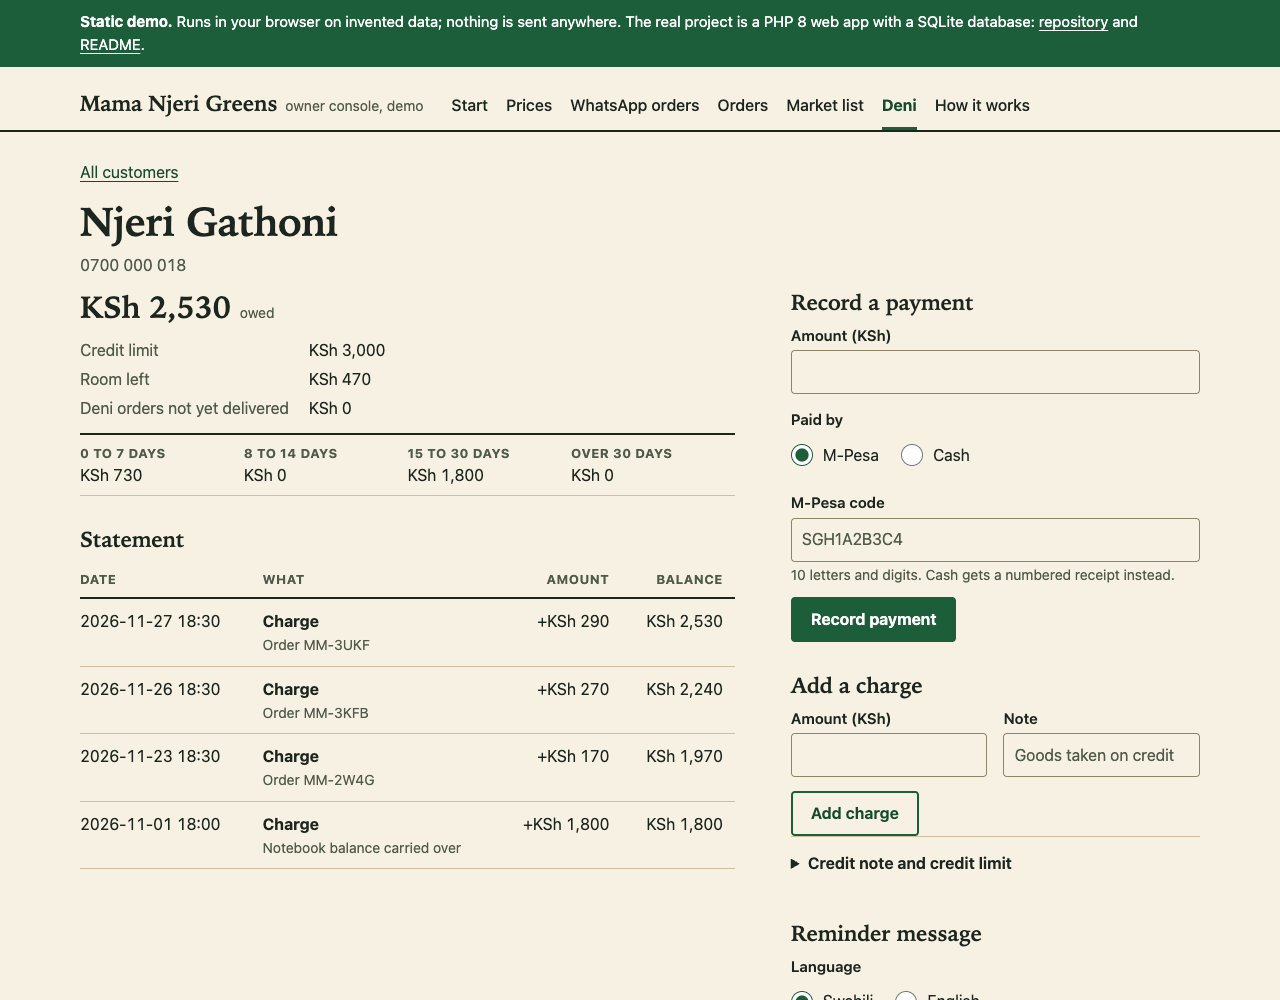
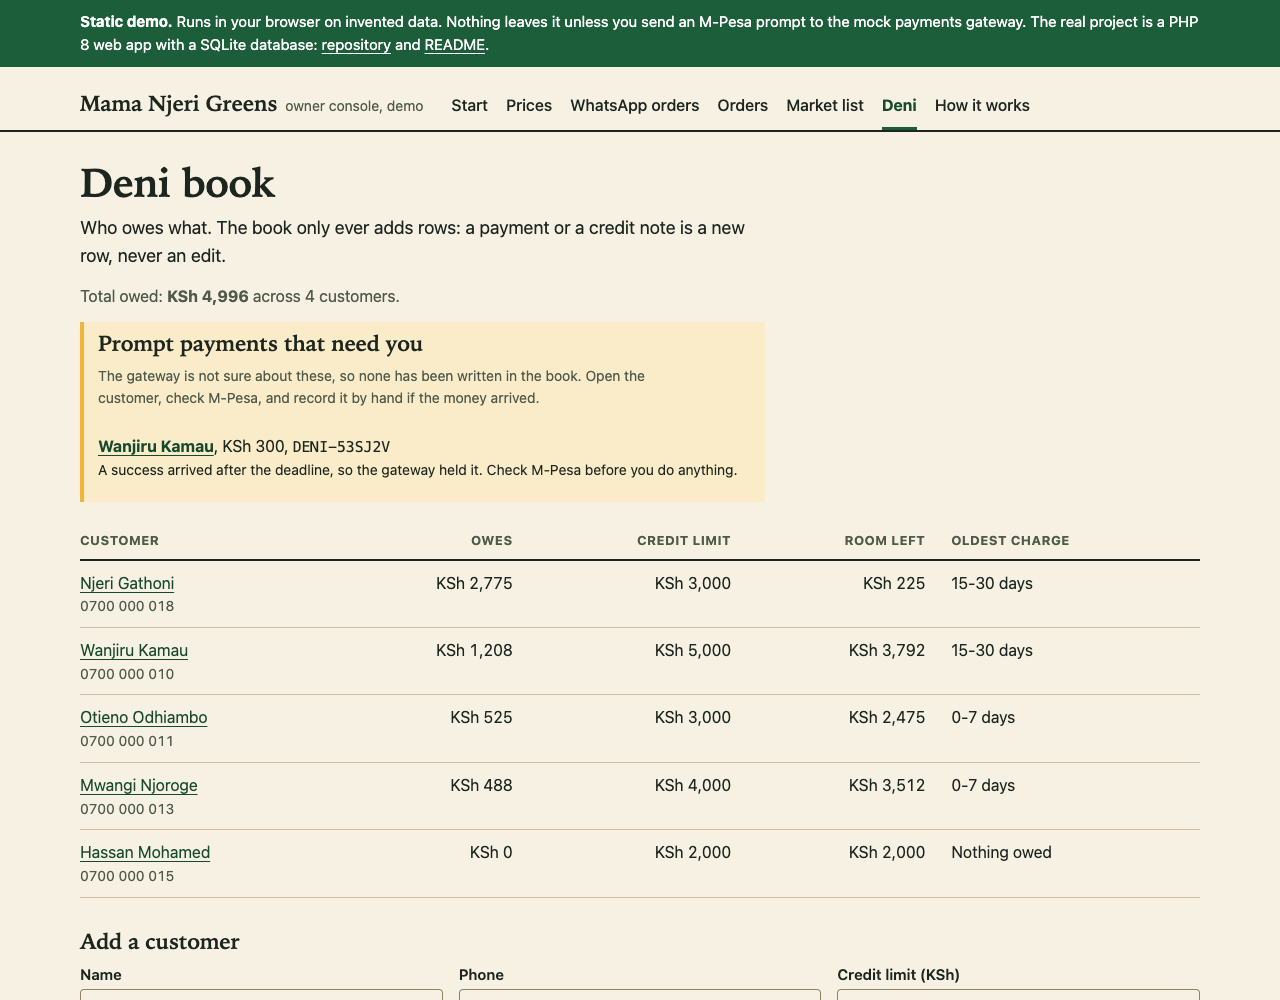
Document collect by prompt, refresh demo screenshots and fix date-dependent demo checks

diff --git a/tests/Application/PaymentCollectionTest.php b/tests/Application/PaymentCollectionTest.php
@@ -409,6 +409,19 @@ final class PaymentCollectionTest extends TestCase
         $this->sent(100); // a fresh request is allowed
     }
 
+    public function testARequestTheGatewayNeverAcceptedCanBeAbandonedButASentOneCannot(): void
+    {
+        $unsent = $this->collect->open($this->customer, 100);
+        $abandoned = $this->collect->abandon((int) $unsent->id, 'Not sent from this browser.');
+        self::assertSame('failed', $abandoned->display()['state']);
+        self::assertSame([], $this->gateway->creates);
+
+        $sent = $this->sent(100);
+        $this->expectException(ValidationException::class);
+        $this->expectExceptionMessage('was sent');
+        $this->collect->abandon((int) $sent->id, 'x');
+    }
+
     public function testRateLimitingKeepsTheRequestAndTellsTheOwnerHowLong(): void
     {
         $this->gateway->failNextCreate = new GatewayException(GatewayException::RATE_LIMITED, 'slow down', 45);

diff --git a/README.md b/README.md
@@ -14,7 +14,7 @@ The owner sets the day's prices, customers order from their phones, WhatsApp ord
 
 ![Mama Mboga: owner console and customer menu](docs/screenshots/hero.png)
 
-> **Status: portfolio build, runs locally with sample data.** "Mama Njeri Greens" is a made-up shop; every customer, phone number and order is synthetic. No payment provider and no WhatsApp API is connected (see [limits](#status-and-roadmap)). The full app needs PHP, so the hosted page is a [browser demo](#live-demo) of the owner console that runs the real code under WebAssembly.
+> **Status: portfolio build, runs locally with sample data.** "Mama Njeri Greens" is a made-up shop; every customer, phone number and order is synthetic. The owner can optionally collect deni with an M-Pesa prompt through a [payments gateway](#live-gateway), which this repository has only exercised against the gateway's mock and its tests; no WhatsApp API is connected (see [limits](#status-and-roadmap)). The full app needs PHP, so the hosted page is a [browser demo](#live-demo) of the owner console that runs the real code under WebAssembly.
 
 ## The problem
 
@@ -27,7 +27,7 @@ A neighbourhood greengrocer's trade runs on three things: WhatsApp messages ("su
 - **WhatsApp bridge.** After ordering, the customer gets a pre-filled `wa.me` link with their order and reference, URL-encoded correctly (Swahili text, bullets, line breaks). The order is saved either way.
 - **Paste-a-message parser.** The owner pastes a customer's WhatsApp message; it is matched against today's board (English and Swahili names, aliases, typos, "kilo moja na nusu", "kumi na mbili ndizi", grams, fractions) into a draft. Anything uncertain is flagged for a human, never guessed silently.
 - **Owner console** (PIN or password, sessions, CSRF): orders board with a status flow (received, packing, out, delivered, cancelled), **market shopping list** with "bought" check-offs and a print view, **delivery run sheet** by slot, **daily takings**.
-- **Deni ledger.** Credit limits per customer, an append-only ledger of charges, payments and credit notes in integer KES, M-Pesa codes or numbered cash receipts, aging buckets, a statement the customer opens through a signed link, and polite reminder messages (Swahili or English) as pre-filled WhatsApp links.
+- **Deni ledger.** Credit limits per customer, an append-only ledger of charges, payments and credit notes in integer KES, M-Pesa codes or numbered cash receipts, aging buckets, a statement the customer opens through a signed link, and polite reminder messages (Swahili or English) as pre-filled WhatsApp links, and an optional **M-Pesa prompt** to collect a customer's deni (see [Live gateway](#live-gateway)).
 - **Built for cheap phones.** The menu page is 16.8 KB of HTML plus 14.1 KB CSS and about 3 KB of vanilla JS (3.0 + 3.7 KB gzipped). Installable PWA, offline menu, dark mode, 48 px touch targets, works at 360 px.
 
 | Customer menu (360 px) | Checkout | Paste a WhatsApp order |
@@ -42,15 +42,42 @@ A neighbourhood greengrocer's trade runs on three things: WhatsApp messages ("su
 
 <https://victor-wambua.github.io/mama-mboga/> is a static page on GitHub Pages. It runs this repository's own PHP (services, WhatsApp parser, ledger, SQLite repositories, migrations, demo seeder) unchanged under PHP 8.3 compiled to WebAssembly, in a web worker. Nothing is a port or a recording.
 
-- **Real:** price board, order placing with stock and credit checks, the WhatsApp message reader and its flags, the market list, the deni ledger and its rules, the reminder messages, and the SQLite database with its append-only triggers.
+- **Real:** price board, order placing with stock and credit checks, the WhatsApp message reader and its flags, the market list, the deni ledger and its rules, the reminder messages, the collect-by-prompt rules (amount check, request id, reconcile step), and the SQLite database with its append-only triggers.
 - **Replaced:** the HTTP layer, sessions, PIN login, CSRF and page templates. The page is a separate front end in `demo/web/` that calls the services through `demo/php/Bridge.php`. The shop clock is fixed at 06:30 on today's date so delivery slots stay open.
+- **Collect by prompt:** PHP running in the browser has no network, so in the demo the browser, not PHP, talks to the gateway (`demo/web/gateway.js`). It calls the gateway's mock with a public demo key, polls it, and hands PHP the payment it read; PHP then runs the app's real reconcile step. An opt-in Safaricom sandbox choice sends a real prompt to a number you type, as a flat KES 1 test charge that stands in for the amount, behind a tick-box that is never remembered. See [Live gateway](#live-gateway).
 - **Not shown:** the customer menu and checkout, run sheet, takings, settings, signed statement links and the installable app.
-- **State:** the database lives in browser memory, a copy is kept in IndexedDB, and Reset restores the sample shop. Nothing is sent anywhere. The PHP runtime is about 18 MB unpacked, about 7 MB over the network, and is cached for offline use after the first visit.
-- **Checks:** `tests/Demo/BridgeTest.php` runs the bridge on native PHP in PHPUnit, and a Playwright smoke test (`cd demo && npm ci && npm run build && npm test`) drives the built page in Chromium in CI.
+- **State:** the database lives in browser memory, a copy is kept in IndexedDB, and Reset restores the sample shop. The only thing that leaves the browser is a prompt you choose to send to the gateway. The PHP runtime is about 18 MB unpacked, about 7 MB over the network, and is cached for offline use after the first visit.
+- **Checks:** `tests/Demo/BridgeTest.php` runs the bridge on native PHP in PHPUnit, and `cd demo && npm ci && npm run build && npm test` runs 14 unit tests of the gateway client and poller, then a Playwright smoke test that drives the built page in Chromium in CI. Both gateways are stubbed in those tests; CI never reaches a real one.
 
-| Read a WhatsApp order | Deni book | Market list (phone, dark) |
+| Read a WhatsApp order | Deni book, with a payment held for review | Market list (phone, dark) |
 | --- | --- | --- |
 | ![read order](docs/screenshots/demo-read-order.png) | ![deni](docs/screenshots/demo-deni.png) | ![market list](docs/screenshots/demo-market-phone-dark.png) |
+
+| Collect by prompt, confirming | A late success held for the owner | Sandbox choice (phone) |
+| --- | --- | --- |
+| ![confirming](docs/screenshots/demo-collect.png) | ![held](docs/screenshots/demo-collect-held.png) | ![sandbox gate](docs/screenshots/demo-collect-sandbox-phone.png) |
+
+The collect-by-prompt screenshots were taken with the gateway's responses stubbed so the states are repeatable. The sandbox picture shows the acknowledgement before anything is sent.
+
+## Live gateway
+
+The owner console can collect a customer's deni with an M-Pesa prompt, through the payments gateway at [Victor-Wambua/mpesa-gateway](https://github.com/Victor-Wambua/mpesa-gateway). On a customer's page, **Collect deni by prompt** takes an amount (blank means the whole balance, never more than is owed), saves a request with a short id such as `DENI-7K3Q2X`, and asks the gateway to send the prompt to the customer's own number.
+
+**What is real, and what the app guarantees**
+
+- The book is written only when the gateway reports `succeeded`, and only through the existing ledger rules. A receipt code is used once and a payment can never exceed what is owed, so a reused receipt or an overpayment is refused and shown to the owner, not forced in.
+- It is idempotent: the request has a stable idempotency key, so a resend cannot send a second prompt, and a gateway payment id is attached to one request and recorded once, however often it is checked.
+- `needs_review`, a late success (a success after the deadline), and a success whose callback and status check disagree are shown to the owner as items that need them. They are never recorded automatically; marking one as seen does not touch the book.
+- The ledger and its append-only triggers are untouched. The `payment_requests` table only points at the ledger row that recorded it.
+- `gateway:reconcile` (`php bin/console gateway:reconcile`, safe for cron) and the **Check status** button ask the gateway where waiting prompts stand. The app polls; it does not receive the gateway's webhooks yet.
+
+**What is simulated or unverified**
+
+- The tests and the demo use a fake and a stub gateway. The demo's default is the gateway's mock, which plays out the outcome you pick and contacts no phone. Its entries are labelled as simulated.
+- The gateway has been observed against Safaricom's sandbox: a real prompt reached a real phone, and two KES 1 payments were completed with a PIN by the owner on their own numbers. That is a small sample, and whether a sandbox success debits a real wallet has not been checked. This repository has not been run against a live Safaricom account.
+- In the demo's sandbox option the entry is marked as a sandbox test: KES 1 was charged and it stands in for the amount.
+
+Set it up in `.env`: `GATEWAY_URL` and `GATEWAY_SECRET_KEY` (a server-side secret; it is never sent to a browser). Leave them blank and the feature shows how to set it up instead of failing. The curl client needs PHP's `curl` extension.
 
 The PHP-WASM runtime comes from the WordPress Playground project under its own licences, see `demo/THIRD-PARTY-NOTICES.txt`.
 
@@ -113,7 +140,7 @@ composer accuracy   # score the WhatsApp parser on its case tables
 composer check      # all of the above except accuracy
 ```
 
-Real numbers from the last run: **451 tests, 954 assertions, all passing** on PHP 8.4 and PHP 8.3; PHPStan level 8 reports no errors; the code style check is clean. CI runs the same on 8.3 and 8.4, then seeds the demo and requests the home page. Tests run offline against in-memory SQLite and a frozen clock. Coverage is not measured.
+Real numbers from the last run: **530 tests, 1,504 assertions, all passing** on PHP 8.4 and PHP 8.3; PHPStan level 8 reports no errors; the code style check is clean. CI runs the same on 8.3 and 8.4, then seeds the demo and requests the home page. Tests run offline against in-memory SQLite and a frozen clock. Coverage is not measured.
 
 | Area | Tests | What is covered |
 | --- | ---: | --- |
@@ -122,7 +149,10 @@ Real numbers from the last run: **451 tests, 954 assertions, all passing** on PH
 | Ledger, slots, takings, shopping list, orders | 52 | overpay, credit limit, duplicate receipts, one charge per order, FIFO aging, capacity, cut-off |
 | Application services | 51 | stock reservation, last-item race, slot capacity, deni limit, cancel restores stock, WhatsApp links |
 | Router, container, middleware, sessions, DB | 51 | route params, 404/405, circular DI, CSRF, rate limit, session fixation, migration rollback, append-only triggers |
-| Browser demo bridge (native PHP) | 10 | seeded shop, price edits, parser flags, quotes, order to market list, deni rules, reminders |
+| Browser demo bridge (native PHP) | 24 | seeded shop, price edits, parser flags, quotes, order to market list, deni rules, reminders, collect-by-prompt on a payment the page supplies |
+| Collect by prompt (service, fake gateway) | 39 | amount never above the balance, record only on `succeeded`, idempotent by payment id and receipt, duplicate receipt and overpayment refused, held and disagreeing payments never recorded, retries |
+| Gateway client (stub transport and a localhost stub over real curl) | 17 | request shape, idempotency key, error mapping, `Retry-After`, unreachable, unconfigured |
+| Collect by prompt over HTTP | 9 | auth on the new routes, default amount, refusals, check status, held items on the deni book |
 | HTTP feature tests (in-process) | 48 | order flow, auth on every owner route, XSS, signed links, expiry, 100 KB budget |
 
 ### Parser accuracy (read this before trusting the number)
@@ -142,13 +172,13 @@ Real numbers from the last run: **451 tests, 954 assertions, all passing** on PH
 ```
 src/
   Domain/          Money, Quantity, Unit, StockPrice, Order, Ledger, ShoppingList, DeliverySlot, Parsing/
-  Application/     Services, ports (interfaces), WhatsApp/reminder messages, demo seeder
-  Infrastructure/  Http (router, kernel, middleware), Container, Persistence (PDO, migrations), View, Security
+  Application/     Services (incl. PaymentCollectionService), ports (interfaces, incl. GatewayClient), Gateway/ and Collection/ value types, WhatsApp/reminder messages, demo seeder
+  Infrastructure/  Http (router, kernel, middleware), Container, Persistence (PDO, migrations), Gateway (curl client), View, Security
   Web/             Controllers and signed-link helper
 templates/         Plain PHP templates (public/, owner/, partials/, layouts/)
 public/            Front controller, CSS, three small JS files, manifest, service worker
 migrations/        Numbered .sql files
-bin/console        setup, migrate, seed, owner:pin, parser:accuracy
+bin/console        setup, migrate, seed, owner:pin, parser:accuracy, gateway:reconcile
 tests/             Domain, Application, Infrastructure, Feature, Support, Fixtures (parser case tables)
 docs/              CASE-STUDY.md, screenshots/
 ```
@@ -165,6 +195,8 @@ Set in `.env` (created from `.env.example`) or the environment.
 | `APP_TIMEZONE` | `Africa/Nairobi` | Day boundaries and slot cut-offs |
 | `DB_PATH` | `var/mama-mboga.sqlite` | SQLite file |
 | `APP_DEBUG` | `0` | Show exception class and message on the error page |
+| `GATEWAY_URL` | empty | Base URL of the payments gateway; blank switches collect-by-prompt off |
+| `GATEWAY_SECRET_KEY` | empty | The gateway's secret key, kept on the server |
 
 Shop name, WhatsApp number, slot size and the owner PIN live in the database and are edited under **Settings**.
 
@@ -172,13 +204,13 @@ Shop name, WhatsApp number, slot size and the owner PIN live in the database and
 
 Working: everything listed above, on a single shop with sample data. Not done, on purpose:
 
-- **No payments integration.** M-Pesa payments are recorded by hand with their confirmation code. A Daraja STK push and callback would replace the manual step.
+- **Payments go through a gateway, not Daraja directly.** Collect-by-prompt needs the separate payments gateway, and the app polls it; it does not receive its signed webhooks yet. Cash and any M-Pesa payment outside a prompt are still recorded by hand with their code. See [Live gateway](#live-gateway) for what has and has not been verified.
 - **WhatsApp is a link, not an API.** The app never sends anything; the customer or owner presses send. Automatic status messages would need the Business API.
 - **One shop, one owner login.** No multi-tenant model, no staff roles.
 - **Rate limiting trusts `REMOTE_ADDR`.** Behind a proxy, set it up to pass the real client address.
 - **The parser is rule-based and tuned on my own examples.** It has not seen real customers' messages.
 
-Next steps: a Daraja callback that settles deni automatically, a customer "reorder last basket" button, stock-in from the market list ("bought" adds to stock), and per-customer price lists.
+Next steps: receive the gateway's signed webhook instead of polling, a customer "reorder last basket" button, stock-in from the market list ("bought" adds to stock), and per-customer price lists.
 
 ---
 

diff --git a/docs/CASE-STUDY.md b/docs/CASE-STUDY.md
@@ -14,7 +14,7 @@ I wanted to see how much one person could fix with a small, honest system, built
 
 Goals: a price board set in minutes; ordering that works on a 360 px low-end phone; a bridge to WhatsApp, not a replacement; a market list generated from orders; a credit ledger that cannot be quietly edited; integer shillings everywhere.
 
-Non-goals: payments processing, multi-shop tenancy, a native app, and any claim that this has users. It is a portfolio build with synthetic data.
+Non-goals: processing payments itself (an M-Pesa prompt goes through a separate gateway, see the README), multi-shop tenancy, a native app, and any claim that this has users. It is a portfolio build with synthetic data.
 
 ## What I built
 
@@ -38,6 +38,8 @@ How well does it work? I wrote 121 cases while building, then 57 more afterwards
 
 **6. WhatsApp as a link, not an API.** After ordering, the customer gets a `wa.me/<shop number>?text=...` link with the order and its reference. It is built with `rawurlencode`, so Swahili text, bullets and line breaks survive, and a test round-trips a nasty string through the URL. The order is saved before the link is shown, so a customer who never taps it still has an order. I chose a link because the Business API needs a verified business account and message templates, and the point is to meet the owner where she already is. The cost is that nothing is automatic.
 
+**7. Collecting deni through a gateway: the book moves only when the gateway says so.** A prompt is asked for through a `GatewayClient` port (curl in production, a fake in tests) and saved as a `payment_requests` row with a short id and a stable idempotency key, so a resend cannot send twice. A reconcile step reads the gateway's answer and writes the book through the existing `LedgerService::recordPayment()` only for a clean `succeeded`, so a reused receipt and an overpayment are still refused by the ledger, not by new code. A payment the gateway holds for review, a late success, or a success whose callback and status check disagree becomes an item for the owner and is never recorded automatically. The ledger triggers are untouched. In the browser demo PHP has no network, so the page talks to the gateway and hands PHP the payment it read; the same reconcile code runs on it.
+
 ## How it is kept correct and safe
 
 - **Concurrency.** Writes take `BEGIN IMMEDIATE`, so the stock check, slot capacity check and credit check happen under one lock. A test orders the last bunch twice in a row and asserts exactly one succeeds (sequentially, so the lock itself is not stress-tested); stock cannot go negative even at the SQL level.
@@ -48,8 +50,8 @@ How well does it work? I wrote 121 cases while building, then 57 more afterwards
 
 ## What I'd do differently, and what's next
 
-I would write the parser's case table before the parser, not after; batch A drifted toward what the code already did. I would also build the stock-in flow ("bought" on the market list should add to stock). The roadmap: a Daraja callback to settle deni automatically, "reorder my last basket", per-customer prices, and a Playwright smoke test in CI. I would test the parser on real, anonymised messages with the owner's consent before believing any accuracy figure.
+I would write the parser's case table before the parser, not after; batch A drifted toward what the code already did. I would also build the stock-in flow ("bought" on the market list should add to stock). The roadmap: receive the gateway's signed webhook instead of polling it, "reorder my last basket", per-customer prices, and a Playwright smoke test in CI. I would test the parser on real, anonymised messages with the owner's consent before believing any accuracy figure.
 
 ## Status
 
-Portfolio build, runs locally with synthetic data (the shop, customers and phone numbers are made up). 441 PHPUnit tests pass on PHP 8.3 and 8.4, PHPStan level 8 is clean, and CI runs both. Not verified or not built: coverage percentage, any real WhatsApp or M-Pesa traffic, behaviour behind a reverse proxy, and any real user.
+Portfolio build, runs locally with synthetic data (the shop, customers and phone numbers are made up). 530 PHPUnit tests pass on PHP 8.3 and 8.4, PHPStan level 8 is clean, and CI runs both. Not verified or not built: coverage percentage, any real WhatsApp traffic, any run against a live Safaricom account (the gateway has only been observed against Safaricom's sandbox, with two KES 1 payments), behaviour behind a reverse proxy, and any real user.
